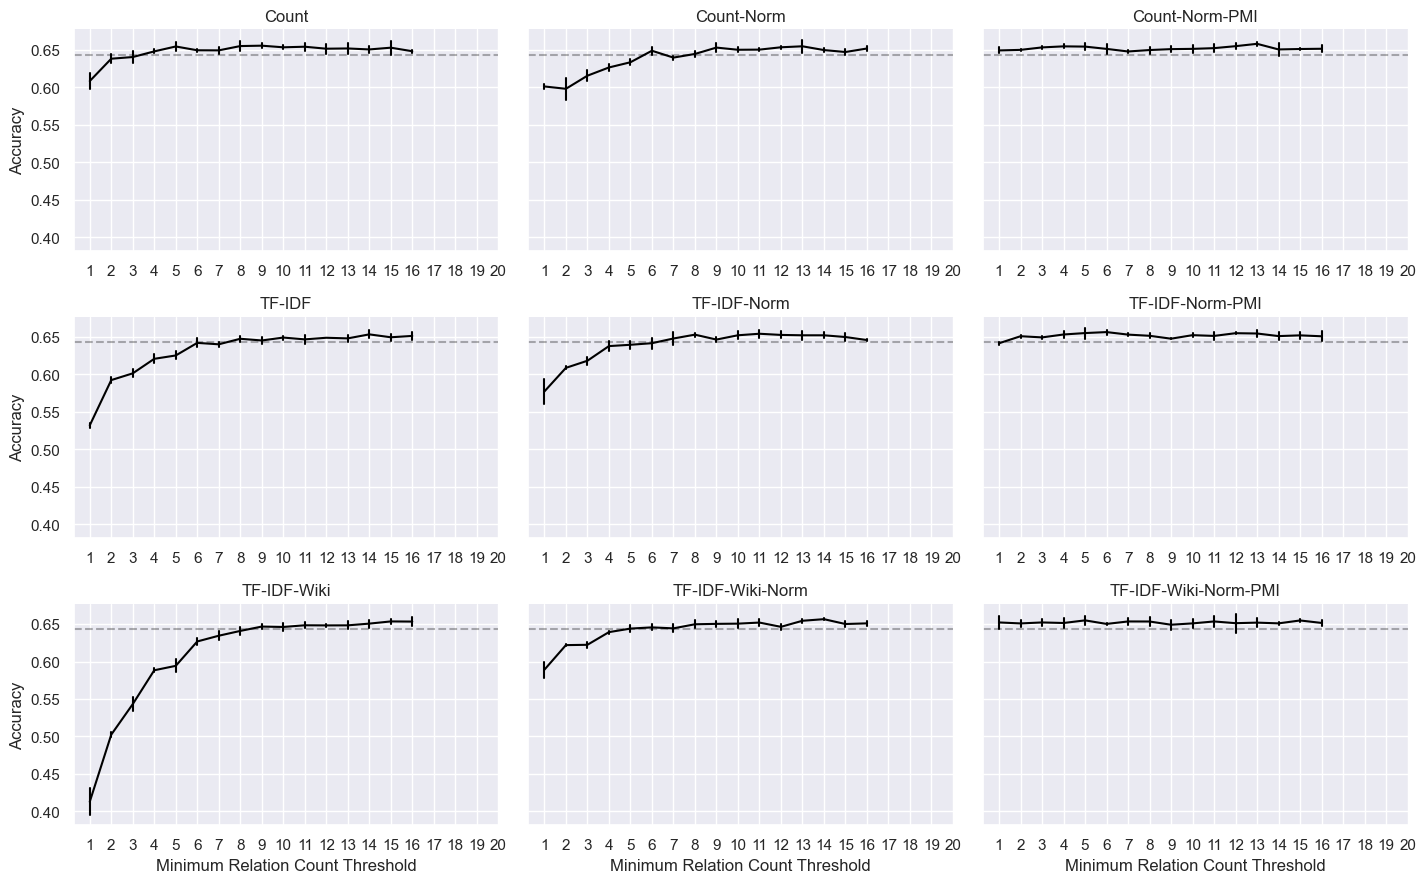
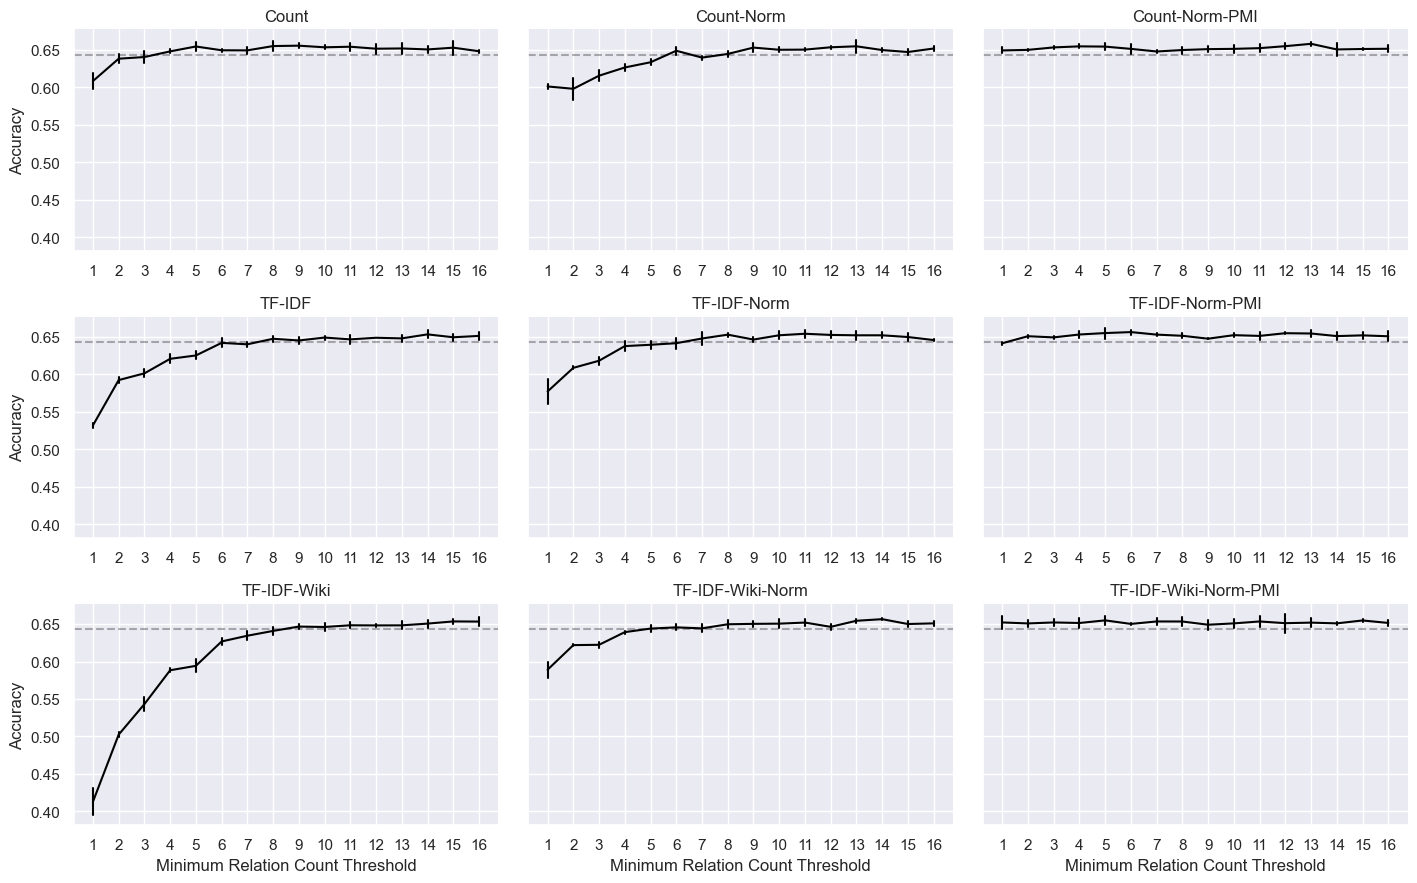
Update

diff --git a/analyze_results.py b/analyze_results.py
@@ -76,6 +76,8 @@ def plot_metric(dataset, metric="accuracy"):
     g.map(sns.lineplot, "threshold", metric, ci="sd", err_style="bars", markers=True, dashes=False, color="black")
     g.set_titles(row_template='{row_name}', col_template='{col_name}')
     max_threshold = results["threshold"].max() + 1
+    if dataset == "ohsumed":
+        max_threshold = 17
     g.fig.set_figwidth(15)
     g.set_axis_labels("Minimum Relation Count Threshold", "Accuracy")
 
@@ -282,7 +284,6 @@ def plot_all(metric="accuracy", density=False):
         if "20ng" in dataset:
             continue
         count_dict = count_model_runs(dataset)
-        optimize_logs(dataset, count_dict)
         perform_ttest(dataset, count_dict)
         get_results_statistics(dataset)
         plot_metric(dataset, metric)
@@ -321,43 +322,6 @@ def get_number_of_entities(dataset):
             counter += 1
 
     print(f"{dataset}: {counter}")
-
-
-def delete_biggest(dataset):
-    results_log = file.get_eval_logs(dataset=dataset)
-    baseline = results_log[results_log["wiki_enabled"] == False]
-    baseline_count = baseline.shape[0]
-    to_delete = baseline_count - number_of_logs
-    largest = baseline.nlargest(to_delete, columns="accuracy").index
-    results_log.drop(largest, inplace=True)
-
-    file.save_eval_logs(results_log, dataset=dataset)
-
-
-def delete_smallest(dataset, edge_type, threshold):
-    results_log = file.get_eval_logs(dataset=dataset)
-    baseline = results_log[(results_log["raw_count"] == edge_type) & (results_log["threshold"] == threshold) & (results_log["wiki_enabled"] == True)]
-    baseline_count = baseline.shape[0]
-    to_delete = baseline_count - number_of_logs
-    largest = baseline.nsmallest(to_delete, columns="accuracy")
-    results_log.drop(largest.index, inplace=True)
-
-    file.save_eval_logs(results_log, dataset=dataset)
-
-
-def optimize_logs(dataset, count_dict):
-    for key in count_dict.keys():
-        value = count_dict[key]
-        if value > number_of_logs:
-            params = key.split(":")
-            wiki_enabled = params[0] == "True"
-            edge_type = str(params[2])
-            threshold = int(params[3])
-
-            if not wiki_enabled:
-                delete_biggest(dataset)
-            else:
-                delete_smallest(dataset, edge_type, threshold)
 
 
 def perform_ttest(dataset, count_dict):

diff --git a/thesis_helper.py b/thesis_helper.py
@@ -25,9 +25,6 @@ def analyze_relations(dataset, id1, id2):
 
     doc1 = docs[id1]
     doc2 = docs[id2]
-    # print(doc1)
-    # print("DOC 2\n")
-    # print(doc2)
 
     doc1_ids = doc2id[doc2id["doc"] == id1]["wikiID"].tolist()
     doc2_ids = doc2id[doc2id["doc"] == id2]["wikiID"].tolist()
@@ -69,7 +66,6 @@ def analyze_relations(dataset, id1, id2):
     print("\n\n\n")
     print(doc2)
 
-    # print(count1, count2)
     print(entities_doc1)
     print(merged_results)
 
